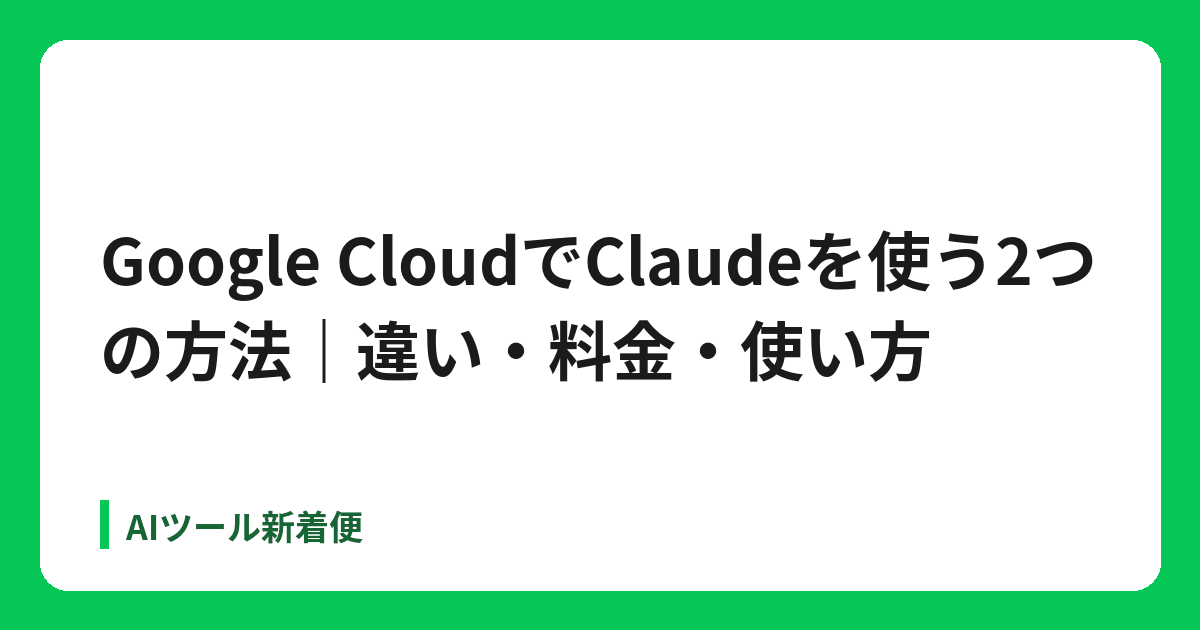
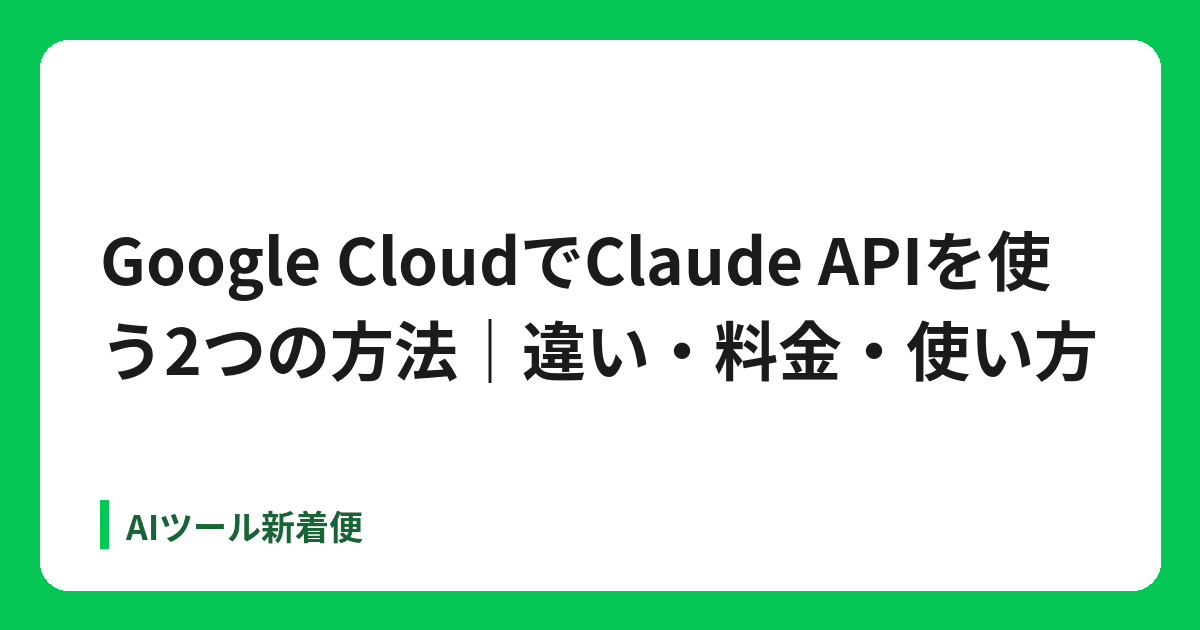
CTR改善（GSC 10/28〜11/24）：カンリーAIO・Google Cloud×Claudeのタイトル、記事末の「まとめ」で結論を言ってからボタン (#153)

Changed region(s): [[0.0617, 0.5127, 0.925, 0.6032], [0.6783, 0.3619, 0.925, 0.4825]]

diff --git a/data/articles.js b/data/articles.js
@@ -256,7 +256,7 @@ module.exports = [
     "date": "2026-10-27",
     "updated": "2026-10-28",
     "tools": [],
-    "title": "Google CloudでClaudeを使う2つの方法｜違い・料金・使い方",
+    "title": "Google CloudでClaude APIを使う2つの方法｜違い・料金・使い方",
     "desc": "Google CloudでClaudeを使うときの2つの提供形態（Anthropic managed／Google managed）の違い、2026年10月23日の一般提供の内容、使い方の手順、公式で確認したトークン料金をまとめました。",
     "body": "<h1>Google CloudでClaudeを使う2つの方法：違い・料金・使い方</h1><p class=\"muted\">公開日：2026年10月27日。内容と料金は2026年10月27日にAnthropicとGoogle Cloudの公式ページで確認した内容です。変わることがあるため、申し込み前に公式サイトでお確かめください。</p>\n<p><b>結論：</b>2026年10月23日、Google Cloudは「Claude Models on Google Cloud（Anthropic managed）」の一般提供を発表しました。これでGoogle Cloud上のClaudeには、Anthropicが運用する経路と、Googleが運用する経路の2つがあります。どちらも同じモデルと標準料金で、請求はGoogle Cloudの請求書にまとまります。違いはデータの処理者（AnthropicかGoogle Cloudか）と、Claude Platformの新機能がいつ使えるかです。新機能を当日に使いたいならAnthropic managed、データの所在やGoogle Cloudの統制を重視するならGoogle managedが向いています。</p>\n<h2>何が一般提供になったのか</h2><p>これまでもGoogle Cloudでは、Googleが運用する「Claude Models on Google Cloud（Google managed）」でClaudeを呼べました。2026年10月23日の発表で、もう一つの経路「Anthropic managed」が一般提供になりました（Anthropic・Google Cloudの公式発表）。</p>\n<p>Anthropic managedでは、次のようなClaude Platformの機能を、Claude APIと同じ日に使えると案内されています。</p><ul><li>Claude Managed Agents（ベータ）</li><li>Code execution（コード実行）</li><li>Computer use（ブラウザやデスクトップの操作）</li><li>Agent skills</li><li>Files API、Citations、Web search / Web fetch</li><li>MCP connector（ベータ）</li><li>Prompt caching、Batch processing</li><li>Claude Opus 5.5のFast Mode（一般提供）</li></ul>\n<p>利用できるモデルとして、Claude Fable 5.1、Opus 5.5、Sonnet 5.5、Haiku 5.5が挙げられています。Haiku 5.5単体の解説は<a href=\"../claude-haiku-5-5/\">Claude Haiku 5.5とは？</a>も参照してください。</p>\n<h2>2つの提供形態の違い</h2><table><tr><th>項目</th><td><b>Anthropic managed</b>／<b>Google managed</b></td></tr>\n<tr><th>データの処理者</th><td>Anthropic（AnthropicのCommercial Terms）／Google Cloud（既存のGoogle Cloud契約）</td></tr>\n<tr><th>モデルの提供</th><td>Day 0／Day 0</td></tr>\n<tr><th>Claude Platformの新機能・ベータ</th><td>Day 0で利用可／Google側への組み込み後に順次</td></tr>\n<tr><th>認証・請求</th><td>どちらもGoogle Cloud IAMとGoogle Cloudの請求（対象のコミットメントに充当）</td></tr>\n<tr><th>APIの形</th><td>Claude APIエンドポイント（claude.googleapis.com）／Agent Platformの予測エンドポイント（aiplatform.googleapis.com など）</td></tr>\n<tr><th>レート制限</th><td>Anthropicが管理／Google Cloudが管理</td></tr>\n<tr><th>エンドポイントの例</th><td>USおよびGlobal（Anthropicの案内）／Global・マルチリージョン・リージョン（データ所在は米・欧・APACなどGoogleの案内）</td></tr></table>\n<p>Google managedは、VPC Service Controls、顧客管理の暗号鍵（CMEK）、データの所在要件、BigQueryやModel Armor、Agent Engineとの連携を求める場合向けと、Google Cloudの発表に書かれています。</p>\n<h2>使い方の流れ（Anthropic managed）</h2><p>公式ドキュメントに書かれている手順の要約です。</p><ol><li>Google Cloud Marketplaceで「Claude Models on Google Cloud（Anthropic managed）」をSubscribe（購入）します。既存の割引がある場合は、開始前にAnthropicまたはGoogle Cloudの担当へ連絡するよう案内されています（過去の利用分への遡及適用は不可）。</li><li>対象プロジェクトで次の2サービスを有効にします。<code>claude.googleapis.com</code> と <code>anthropic-managed-claude.cloudpartnerservices.goog</code>。</li><li>Google CloudコンソールのClaudeページでActivateし、Anthropicの組織セットアップ（連絡先メール、組織名、利用目的、Commercial Termsへの同意など）を完了します。これは会社がすでに持っているAnthropic組織とは別の、プロジェクト用の新しい組織になります。</li><li>「Open Claude Console」から <code>platform.claude.com</code> を開き、ワークスペースID（<code>wrkspc_</code>で始まる）を控えます。</li><li>呼び出す主体に <code>roles/claude.user</code>（または admin）を付与し、Application Default Credentialsを用意します。APIキーは使えません。</li><li>SDKなら <code>AnthropicGoogleCloud</code> クライアント（Python例：<code>pip install -U \"anthropic[google_cloud]\"</code>）で Messages APIを呼びます。環境変数 <code>ANTHROPIC_GOOGLE_CLOUD_PROJECT</code> と <code>ANTHROPIC_GOOGLE_CLOUD_WORKSPACE_ID</code> を設定します。</li></ol>\n<p>ベースURLの形は公式どおり次のとおりです。</p><pre><code>https://claude.googleapis.com/v1/projects/{project}/locations/global/workspaces/{workspace}/invoke</code></pre>\n<p>Messages APIは上記に <code>/v1/messages</code> を付けた先です。認証はGoogleのアクセストークン（Bearer）で、<code>x-api-key</code> は送りません。</p>\n<h2>使い方の流れ（Google managed）</h2><p>Agent Platform（旧Vertex AI系）側でClaudeを呼ぶ経路です。公式ではSDKクライアント名に <code>Vertex</code> が入り（例：<code>AnthropicVertex</code>）、URLは <code>aiplatform.googleapis.com</code> などの <code>.../publishers/anthropic/models/{model}:rawPredict</code> 形式です。リクエスト本体には <code>anthropic_version</code>（例：<code>vertex-2023-10-16</code>）を入れ、モデル名はURL側に置きます。サービスは <code>aiplatform.googleapis.com</code> を有効にします。</p>\n<h2>料金（100万トークンあたり・米ドル）</h2><p>Google Cloudの発表では、両経路とも「同じ標準料金」と書かれています。下表は、2026年10月27日にGoogle CloudのAgent Platform料金ページ（Partner models）とAnthropicの料金ページで確認した、主な現行モデルの標準レートです（グローバル端点の表示）。</p>\n<table><tr><th>モデル</th><td><b>入力</b>／<b>出力</b></td></tr>\n<tr><th>Claude Haiku 5.5</th><td>入力10万トークンまで $0.10／$0.50。超える場合 $0.50／$2.50</td></tr>\n<tr><th>Claude Sonnet 5.5</th><td>$2.00／$10.00</td></tr>\n<tr><th>Claude Opus 5.5</th><td>$4.00／$20.00</td></tr>\n<tr><th>Claude Fable 5.1</th><td>$10.00／$50.00</td></tr></table>\n<p>Anthropic managedの案内では、Claude Opus 5.5のFast Modeは入力 $8／出力 $40（100万トークンあたり）で、出力トークン生成が最大約2.5倍速くなると書かれています。Anthropicの料金ページでは、米国のみの推論（US-only inference）は入力・出力とも1.1倍と案内されています。Google Cloudの料金表では、非グローバル端点の料金がグローバルより高い行も並んでいます（例：Haiku 5.5で入力 $0.11／出力 $0.55など）。</p>\n<p>Anthropic managedの請求はGoogle Cloud Marketplace経由です。利用量はAnthropicが計測し、Claude Consumption Unit（1単位＝0.01米ドル）としてGoogle Cloudの請求に載ります。Anthropicから別請求は来ないと公式に書かれています。対象のGoogle Cloudコミットメントがある場合は、Marketplace購入と同様に充当されます。</p>\n<p>円での支払額や税の扱いは、公式サイトに記載なしです。最新の料金は各公式の料金ページでご確認ください。</p>\n<h2>どちらを選べばいい？</h2><ul><li><b>Claude Platformの新機能・ベータを当日に使いたい</b>：Anthropic managed</li><li><b>データの処理者をGoogle Cloudにしたい、所在要件やVPC Service Controls・CMEK・Model Armorなどが必要</b>：Google managed</li><li><b>すでにGoogle CloudのIAMと請求にまとめたい</b>：どちらも対応（請求はGoogle Cloud）</li></ul>\n<p>既存のAnthropic組織（APIキー運用）をそのままAnthropic managed組織へ変換することはできないと公式に書かれています。新規組織を作り、IAMと設定を作り直して切り替える形です。</p>\n<h2>よくある質問</h2><h3>Anthropic managedとGoogle managedで料金は違う？</h3><p>Google Cloudの発表では、両経路とも同じ標準料金・同じGoogle Cloud請求と案内されています。端点の種類（グローバル／非グローバル）やFast Mode、US-only推論などで単価が変わる場合があるため、実際の請求前に料金ページでお確かめください。</p>\n<h3>APIキーは使える？</h3><p>Anthropic managedでは使えません。Google Cloudの認証情報（Application Default Credentialsなど）のみです。セットアップで作られるAnthropic組織では、Claude Console上でAPIキーを作れないと公式に書かれています。</p>\n<h3>個人のClaude ProやMaxの契約で使える？</h3><p>この記事の対象は、Google Cloudプロジェクト経由の開発者向け提供です。Claudeの個人向けプラン（Free・Pro・Maxなど）の料金や範囲はAnthropicの料金ページに別途載っています。Google Cloud Marketplace経由のAnthropic managed組織は、会社がすでに持っているAnthropic組織とは別になると公式に説明されています。</p>\n<p>Claude Codeで時間のかかるMCPの仕事を預けて並行作業したいときは、<a href=\"/articles/claude-code-mcp-tasks/\">Claude Code MCP Tasksの使い方</a>もあわせてどうぞ。</p><h2>出典（公式）</h2><pre><code>https://cloud.google.com/blog/products/ai-machine-learning/expanding-claude-availability-on-google-cloud\nhttps://claude.com/resources/articles/claude-models-on-google-cloud-anthropic-managed\nhttps://platform.claude.com/docs/en/build-with-claude/claude-models-on-google-cloud/overview\nhttps://platform.claude.com/docs/en/build-with-claude/claude-models-on-google-cloud/anthropic-managed\nhttps://cloud.google.com/gemini-enterprise-agent-platform/generative-ai/pricing\nhttps://www.anthropic.com/pricing</code></pre>"
   },

diff --git a/build.js b/build.js
@@ -201,7 +201,7 @@ const TSO={
  rakurin:['ラクリンとは｜無料は月約2記事・料金4,980円〜','ラクリン（Rakurin）の概要と料金を公式情報で整理。無料は毎月約2記事・クレカ不要、有料は月4,980円（税込）から。向いている人・向かない人も掲載。'], // 2026-11-18：GSC直す案(B-1)。ツールページは概要・料金・向いている人、評判の要点は記事側
  elevenlabs:['ElevenLabsの料金｜無料プランは非商用・商用は$6/月〜','ElevenLabsは無料プラン（Free $0）で試せますが、無料は非商用の目的だけ。商用ライセンスが付く有料プランはStarter $6/月〜。90以上の言語・5,000以上の声に対応したAI音声生成。'],
  plaud:['Plaud（プラウド）とは｜使い方・料金・無料300分','Plaud（プラウド）の使い方と料金。本体（¥27,500〜¥30,800税込）を買えば無料Starterで毎月300分の文字起こし。有料はPro年間¥16,800・Unlimited年間¥40,000（税込）。日本語公式・サポートあり。'], // 2026-11-10：GSC「plaud」「プラウドとは」向けに「とは・使い方」を前へ
- 'canly-aio':['カンリーAIOとは｜AI検索での見え方と使い方','カンリーAIO分析（β版）は、ChatGPTやGeminiなどの生成AIの回答で自社がどう扱われているかを分析し、スコア推移や競合比較をダッシュボードで確認できます。料金は問い合わせ制。'], // 2026-11-10：軽微。検索語「カンリー aio」に「とは・使い方」を寄せた
+ 'canly-aio':['カンリーAIO分析（β版）とは｜できること・料金・使い方','カンリーAIO分析（β版）は、ChatGPTやGeminiなどの生成AIの回答で自社がどう扱われているかを分析し、スコア推移や競合比較をダッシュボードで確認できます。料金は問い合わせ制。'], // 2026-11-10：軽微。検索語「カンリー aio」に「とは・使い方」を寄せた／2026-11-27：GSC（10/28〜11/24）で表示28・クリック1。製品名クエリなので正式名「AIO分析（β版）」と「料金」を足した
  'japan-ai-search-3':['JAPAN AI Search 3.0とは｜出典付きの社内検索・追加月額なし','社内のSlackやGoogleドライブなどから、出典付きで答える検索基盤。エンタープライズ3プランの契約者は追加の月額なし、利用に応じてクレジット消費。'], // 2026-11-18：GSC直す案(B-2)。「とは」と「の」を追加。説明文の先頭を何をするツールかに寄せた
  'japan-ai-browser-assistant':['JAPAN AIブラウザの使い方｜要約・操作の代行','JAPAN AIブラウザアシスタントの使い方。Chrome・Edgeのサイドパネルで、開いているページやPDFの要約、返信の下書き、入力やクリックの代行ができる。送信・購入・削除は毎回確認。追加費用なし（JAPAN AI利用者向け）。'], // 2026-11-10：GSC「japan ai 使い方」6.5位
  'deep-review':['Deep Reviewの使い方｜技術文書を検証するAI','Deep Reviewの使い方と概要。Google Researchが公開した技術文書の検証AI。論文の査読支援からGoogleドキュメント等へ対応を広げていると公式ブログに記載。日本語UIの案内は公式ブログになし。'], // 2026-11-10：GSC「deep review 使い方／日本語」（「未確認」はsoftenerが長くするので避ける）
@@ -398,7 +398,9 @@ if(ctaBox){const t1=h.indexOf('</table>');if(t1>0)h=h.slice(0,t1+8)+ctaBox+h.sli
 if(amzBox){const e=h.indexOf('</table>')+8;if(e>8){const c2=ctaBox&&h.startsWith(ctaBox,e)?ctaBox.length:0;h=h.slice(0,e+c2)+amzBox+h.slice(e+c2)}else h=h.replace('</h1>','</h1>'+amzBox)}
 if(x.recommend){const rec=`<h2>こんな人におすすめ</h2><ul>${x.recommend.map(([n,w])=>`<li><b>${esc(n)}</b>：向いている人は${esc(w)}</li>`).join('')}</ul>`;const t=h.indexOf('</table>'),k=t<0?-1:h.indexOf('<h2>',t);h=k<0?h+rec:h.slice(0,k)+rec+h.slice(k);}
 h=h.replace(/<p class="muted">PR：[^<]*<\/p>/g,'');
-if(endBox){const t2=h.lastIndexOf('</table>');const m=/<h2>(関連|この記事の更新履歴|出典)/g;m.lastIndex=Math.max(t2,0);const r=m.exec(h);h=r?h.slice(0,r.index)+endBox+h.slice(r.index):h+endBox;}
+// まとめで結論を先に言ってから公式サイトのボタンを置く（2026-11-27 なべたろ氏の比較記事の型）。recommend（向いている人）がある記事で、本文に「まとめ」「結論」の見出しがないときだけ、向いている人ごとの結論を読み終えた位置（最後のボタンの直前）にもう一度出す
+const endVerdict=(endBox&&x.recommend&&x.recommend.length&&!/<h2>(まとめ|結論)/.test(h))?`<h2>${x.recommend.length>=2?'まとめ：結局どれを選ぶ？':'まとめ：向いている人'}</h2><p>この記事の結論を、向いている人ごとにまとめます。</p><ul>${x.recommend.map(([n,w])=>`<li><b>${esc(n)}</b>：${esc(w)}</li>`).join('')}</ul>`:'';
+if(endBox){const t2=h.lastIndexOf('</table>');const m=/<h2>(関連|この記事の更新履歴|出典)/g;m.lastIndex=Math.max(t2,0);const r=m.exec(h);h=r?h.slice(0,r.index)+endVerdict+endBox+h.slice(r.index):h+endVerdict+endBox;}
 if(x.faq)h+=`<h2>よくある質問</h2>${x.faq.map(([q,an])=>`<h3>Q. ${esc(q)}</h3><p>A. ${esc(an)}</p>`).join('')}`;
 return h+sticky;};
 
